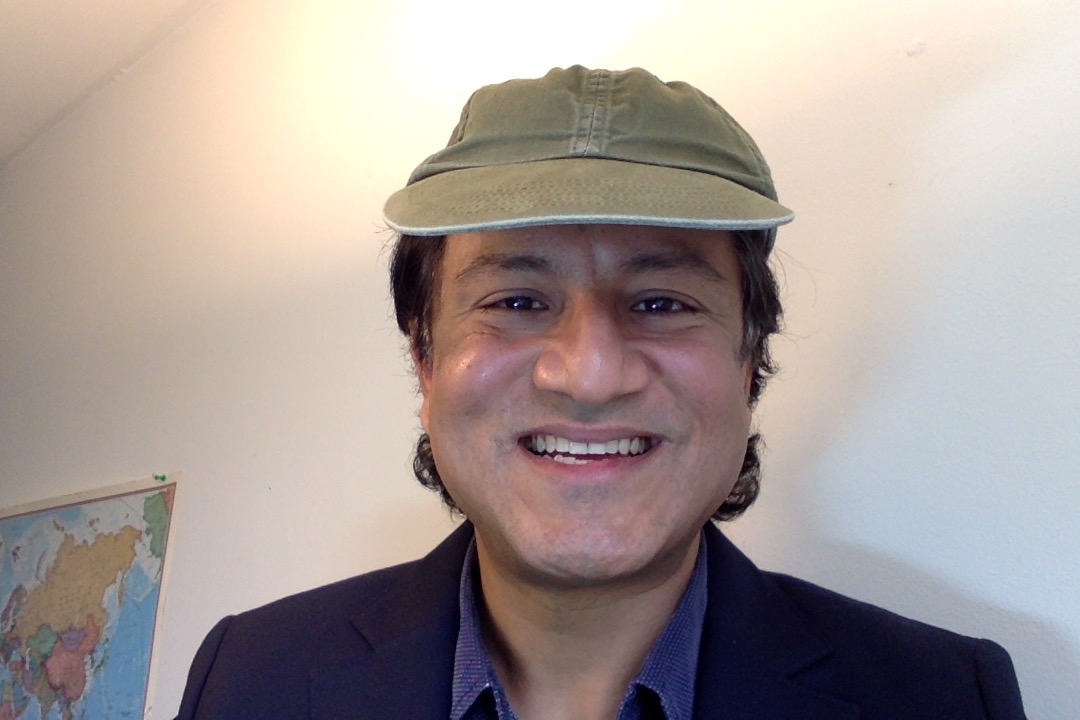
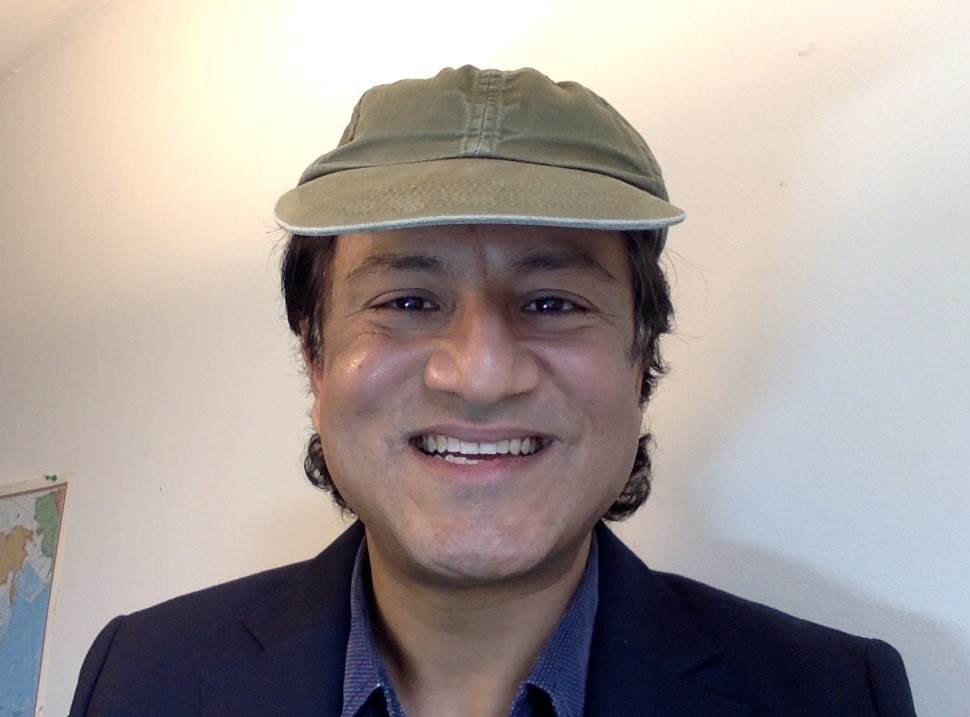
Adding the changes that we made with RGs help last week.

diff --git a/index.html b/index.html
@@ -69,7 +69,7 @@ Enable a global healthcare network. In a quality sense of the word imaginable. P
 
   <div class="column">
     <div class="card">
-     <img src="img/AK-04-29-2021.jpeg" alt="Adeel" style="width:100%">
+     <img src="img/AK-04-29-2021.jpeg" alt="Adeel" style="width:100%; height:450px ;object-fit: cover;">
       <div class="container">
         <h2>Adeel Khan</h2>
         <p class="title">Founder</p>
@@ -82,7 +82,7 @@ Enable a global healthcare network. In a quality sense of the word imaginable. P
 
   <div class="column">
     <div class="card">
-    <img src="img/RG.jpg" alt="Rusith Gimhana - Lead Engineer | GradIEAust" style="width:100%">
+    <img src="img/RG.jpg" alt="Rusith Gimhana - Lead Engineer | GradIEAust" style="width:100%; height:450px ;object-fit: cover;">
       <div class="container">
         <h2>Rusith Gimhana</h2>
         <p class="title">Lead Engineer | GradIEAust</p>
@@ -95,7 +95,7 @@ Enable a global healthcare network. In a quality sense of the word imaginable. P
 
   <div class="column">
     <div class="card">
-      <img src="img/EA-1.jpeg" alt="Enda" style="width:100%">
+      <img src="img/EA-1.jpeg" alt="Enda" style="width:100%; height:450px ;object-fit: cover;">
       <div class="container">
         <h2>Enda Apash</h2>
         <p class="title">Project Co-ordinator</p>
@@ -108,7 +108,7 @@ Enable a global healthcare network. In a quality sense of the word imaginable. P
 
   <div class="column">
     <div class="card">
-      <img src="img/ethics.png" alt="Lead ethicist - Your name here" style="width:100%">
+      <img src="img/ethics.png" alt="Lead ethicist - Your name here" style="width:100%; height:450px ;object-fit: cover;">
       <div class="container">
         <h2>Lead ethicist - Your name here</h2>
         <p class="title">Lead ethicist</p>
@@ -121,7 +121,7 @@ Enable a global healthcare network. In a quality sense of the word imaginable. P
 
   <div class="column">
     <div class="card">
-      <img src="img/GP.png" alt="Lead GP" style="width:100%">
+      <img src="img/GP.png" alt="Lead GP" style="width:100%; height:450px ;object-fit: cover;">
       <div class="container">
         <h2>Lead General Practitioner</h2>
         <p class="title">Lead General Practitioner</p>
@@ -133,7 +133,7 @@ Enable a global healthcare network. In a quality sense of the word imaginable. P
 
   <div class="column">
     <div class="card">
-      <img src="img/heart-ai.png" alt="Lead Artificial intelligence at Awake Universal Healthcare" style="width:100%">
+      <img src="img/heart-ai.png" alt="Lead Artificial intelligence at Awake Universal Healthcare" style="width:100%; height:450px ;object-fit: cover;">
       <div class="container">
         <h2>Director: Artificial intelligence</h2>
         <p class="title">Director - Medical AI </p>
@@ -146,7 +146,7 @@ Enable a global healthcare network. In a quality sense of the word imaginable. P
 
     <div class="column">
     <div class="card">
-      <img src="img/Sesame_Street.jpeg" alt="Program Manager at AUH - Children's well-being and quality of life" style="width:100%">
+      <img src="img/Sesame_Street.jpeg" alt="Program Manager at AUH - Children's well-being and quality of life" style="width:100%; height:450px ;object-fit: cover;">
       <div class="container">
         <h2>Program Manager - Children's well-being</h2>
         <p class="title">Children's well-being</p>
@@ -158,7 +158,7 @@ Enable a global healthcare network. In a quality sense of the word imaginable. P
 
     <div class="column">
     <div class="card">
-      <img src="img/comms.png" alt="Global Communications Lead - Your name here" style="width:100%">
+      <img src="img/comms.png" alt="Global Communications Lead - Your name here" style="width:100%; height:450px ;object-fit: cover;">
       <div class="container">
         <h2>Global Communications Lead - Your name here</h2>
         <p class="title">Global Communications Lead</p>
@@ -170,10 +170,10 @@ Enable a global healthcare network. In a quality sense of the word imaginable. P
 
   <div class="column">
     <div class="card">
-      <img src="img/blockchain.png" alt="Lead Blockchain Developer and Database architect at AUH - Your name here" style="width:100%">
+      <img src="img/blockchain.png" alt="Lead Blockchain Developer and Database architect at AUH - Your name here" style="width:100%; height:450px ;object-fit: cover;">
       <div class="container">
         <h2>Blockchain developer and database architect - AUH</h2>
-        <p>Your primary task is to develop the architecture in order to ensure that the patient's privacy is protected at all times. As well, that only authorized personnel can access this dataset. In addition to this, each time someone who does not have security clearance tries to access the data, that some flag goes off and an appropriate team is notified. Your secondary task is to ensure that the data is accessible, in order to the system to actually function. You are someone who is at the forefront of what is going on in the blockchain+AI space.</p>
+        <p>Your primary task is to develop the architecture in order to ensure that the patient's privacy is protected at all times. As well, that only authorized personnel can access this dataset. In addition to this, each time someone who does not have security clearance tries to access the data, that some flag goes off and an appropriate team is notified. Your secondary task is to ensure that the data is accessible, in order for the system to actually function. You are someone who is at the forefront of what is going on in the blockchain+AI space.</p>
      
       </div>
     </div>

diff --git a/mystyles-backup-07-01-2021.css b/mystyles-backup-07-01-2021.css
@@ -15,7 +15,7 @@ h2 {
 /* Three columns side by side */
 .column {
   float: left;
-  width: 30%;
+  width: 33.3%;
   margin-bottom: 16px;
   padding: 0 8px;
 }
@@ -36,8 +36,6 @@ h2 {
 /* Some left and right padding inside the container */
 .container {
   padding: 0 16px;
-  height: 410px;
-  text-align:justify;
 }
 
 /* Clear floats */
@@ -91,13 +89,4 @@ blockquote:before {
 }
 blockquote p {
   display: inline;
-}
-
-/* This code was added on 07-01-2021 (July 01st) as it was recommended by RG (Rusith). This is what this code does --> Aligning the text to 'justify' for lists and paragraphs */ 
-li {
-  text-align:justify;
-}
-
-p {
-  text-align:justify;
 }
